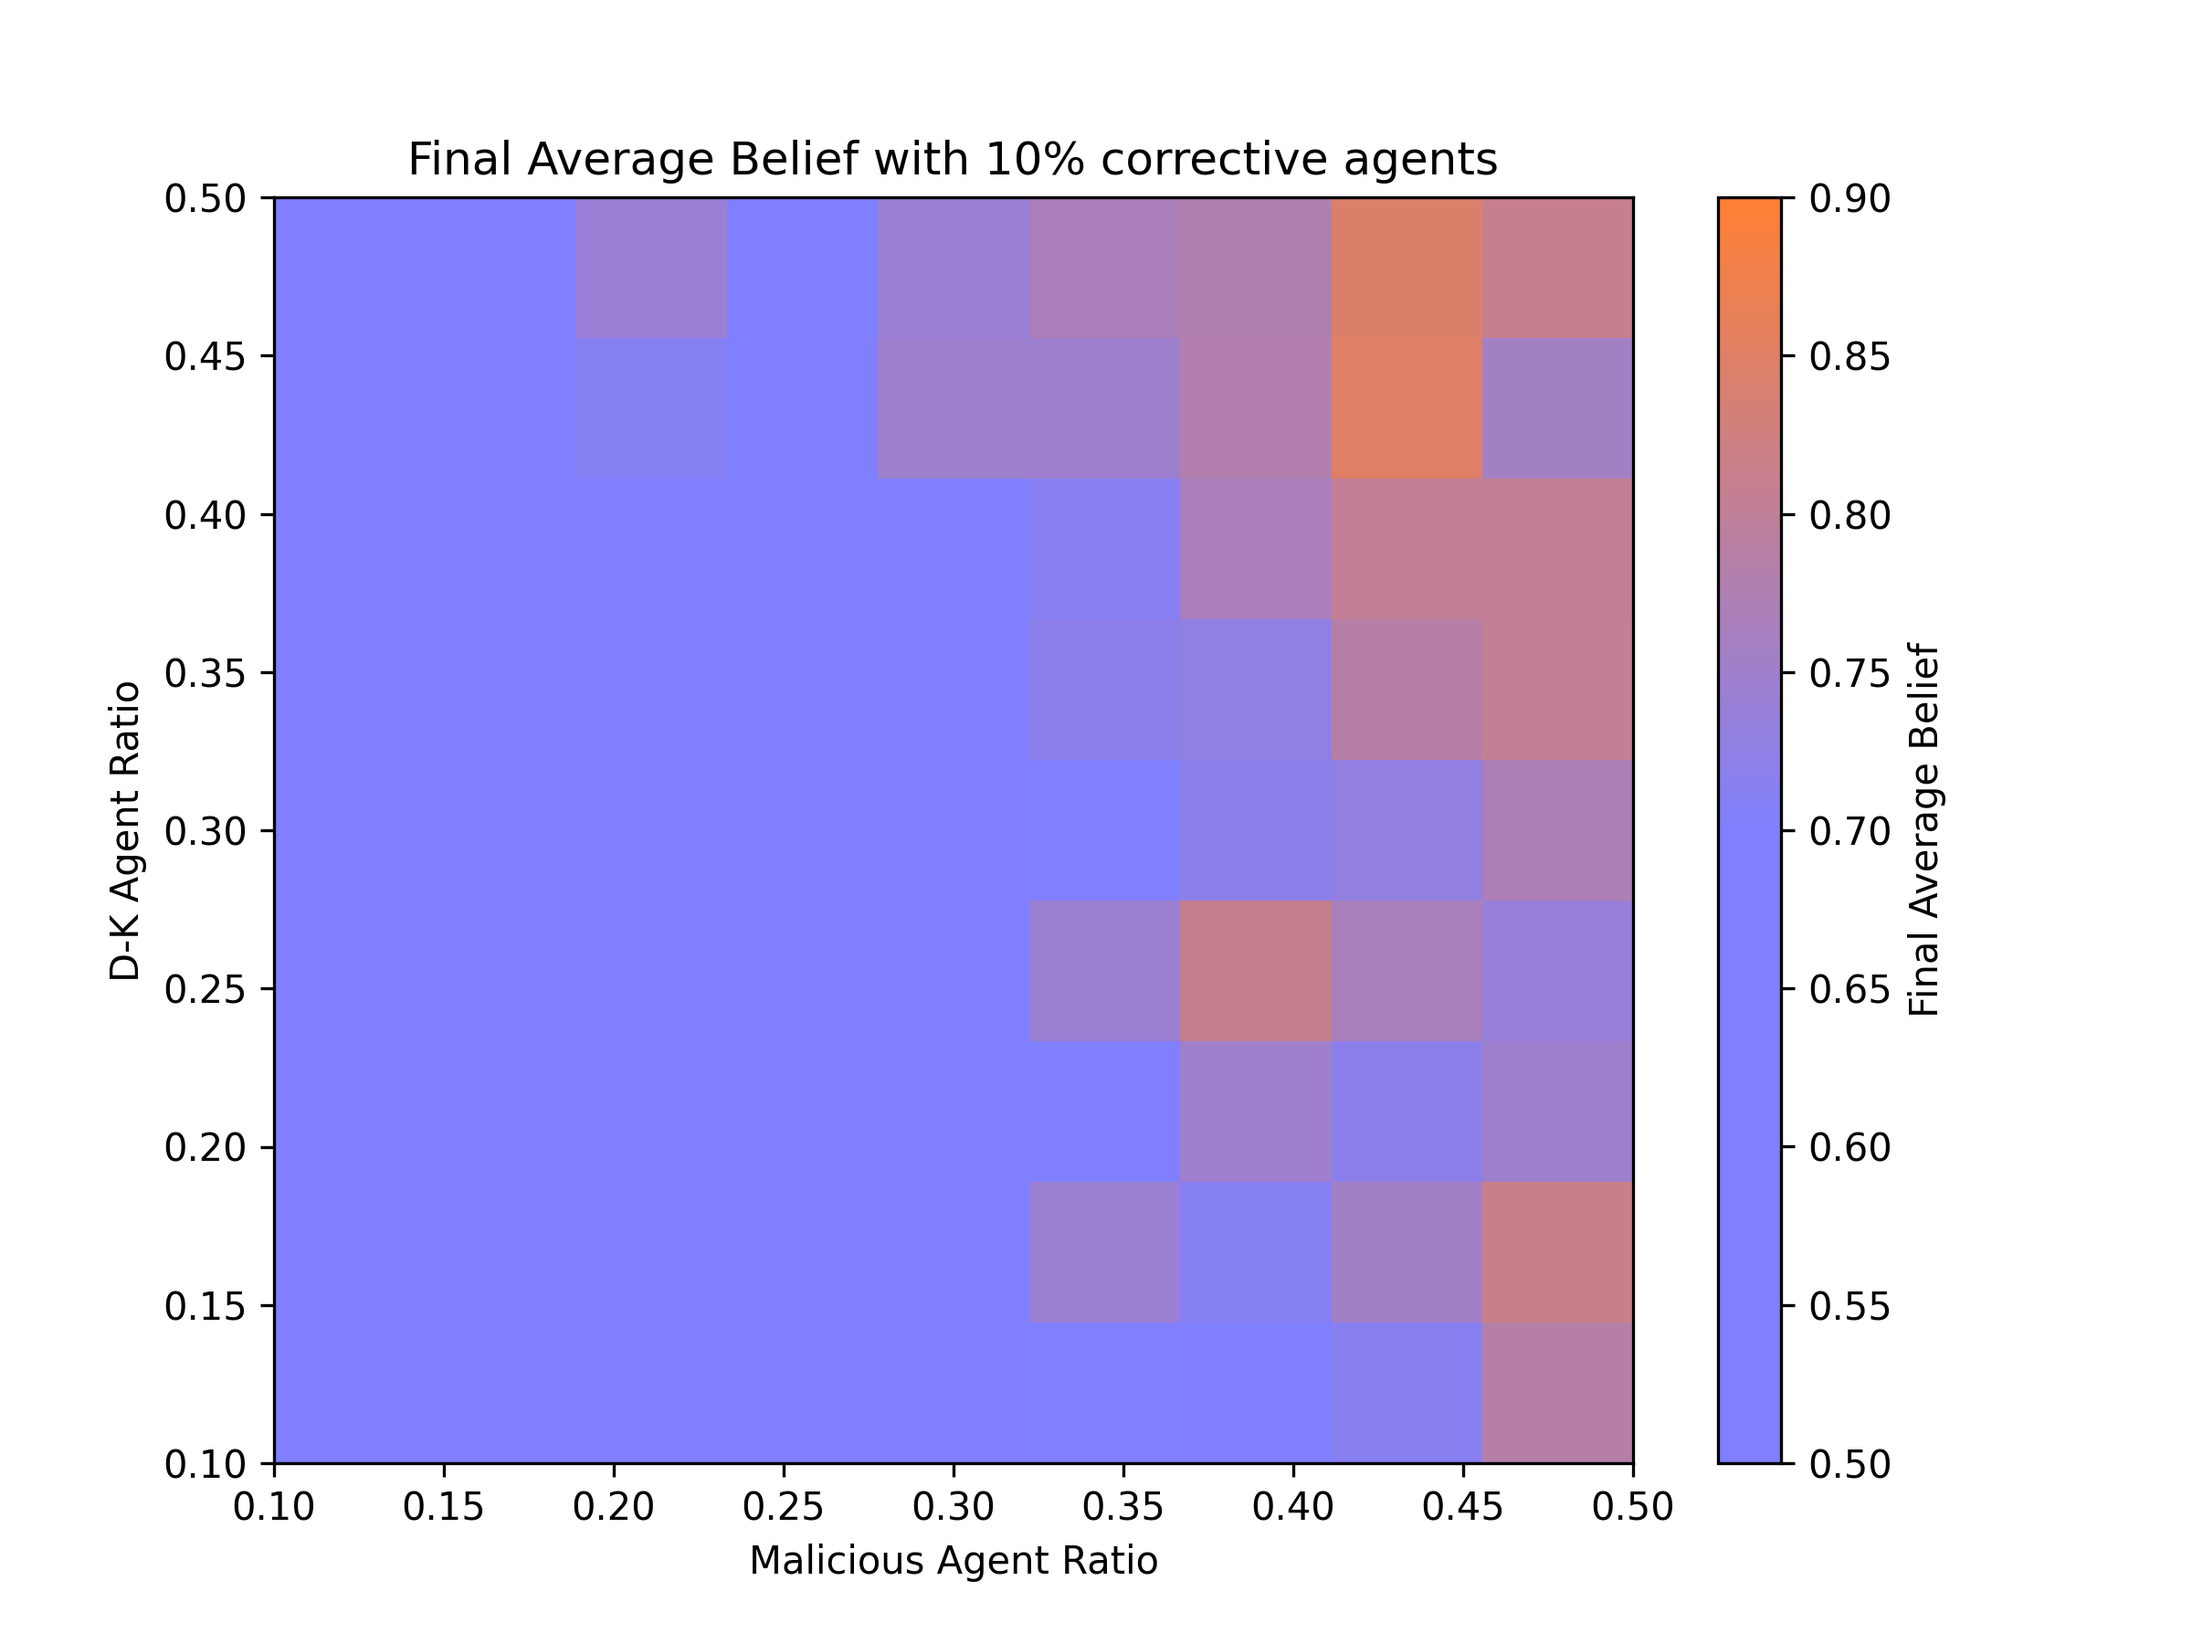
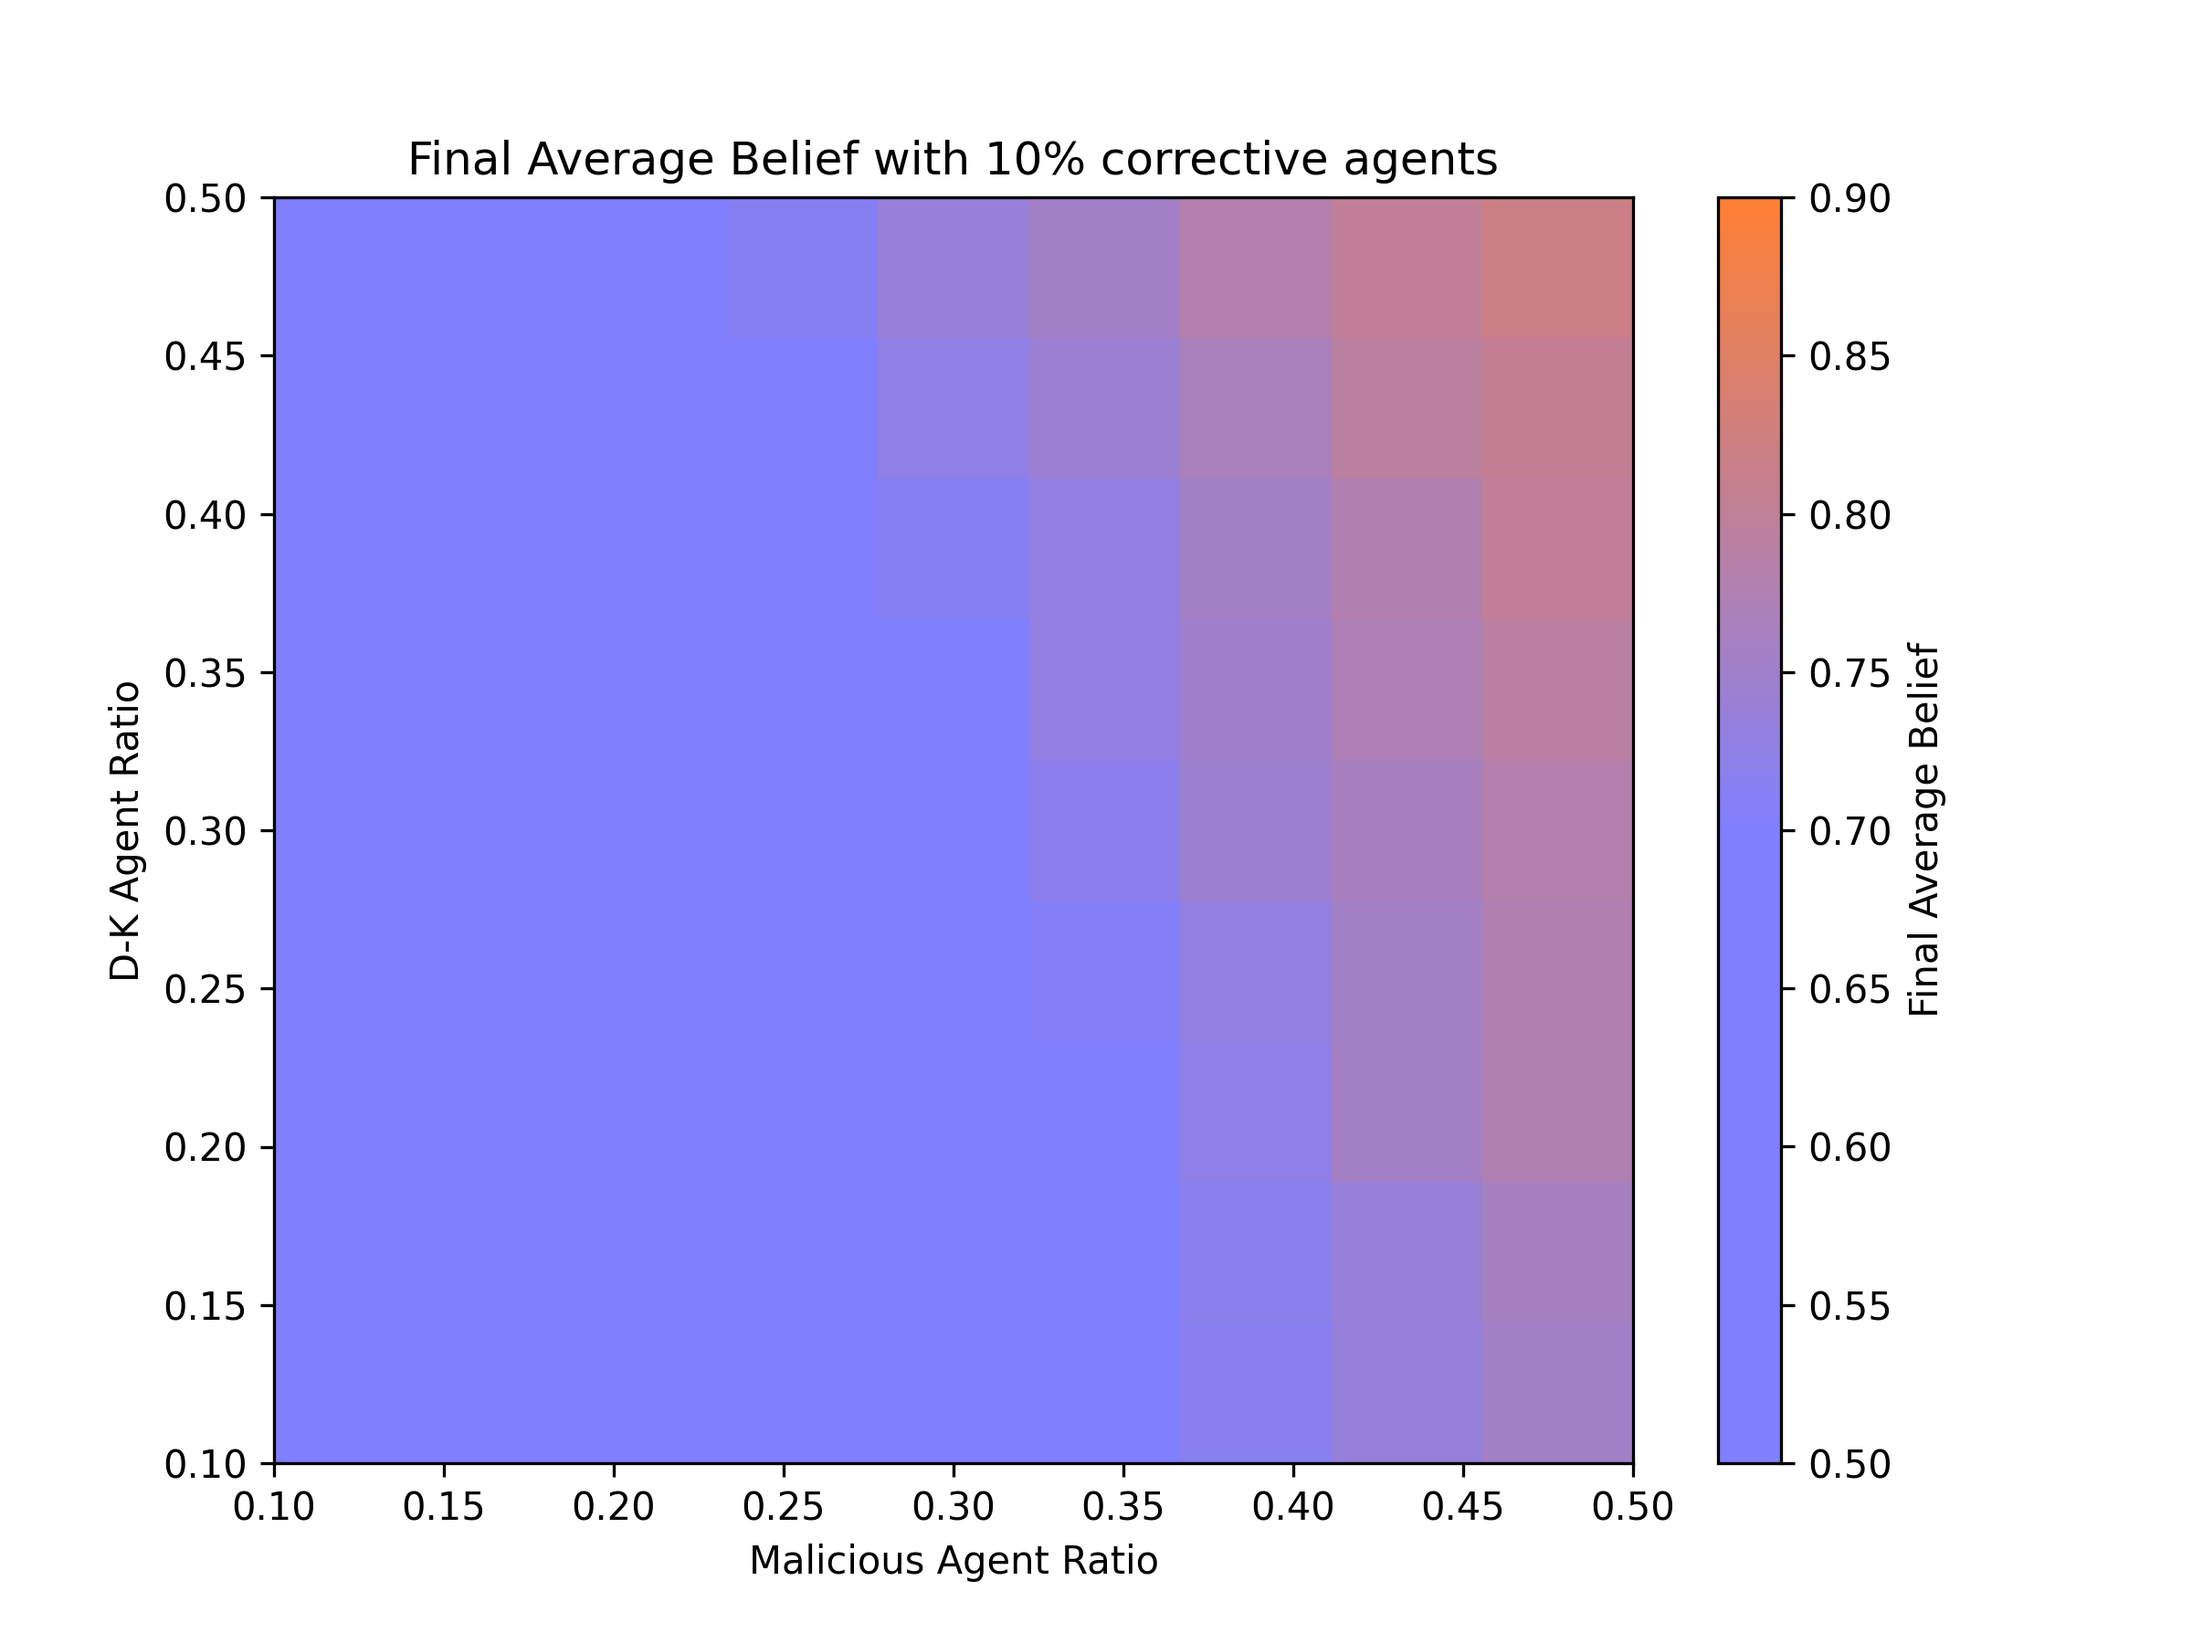
updated mesa_social

Changed region(s): [[0.4688, 0.4356, 0.75, 0.9022], [0.5938, 0.0933, 0.75, 0.4044], [0.25, 0.0933, 0.3438, 0.2178]]

diff --git a/mesa_social/script.py b/mesa_social/script.py
@@ -2,17 +2,21 @@ from model import BeliefModel
 import numpy as np
 import networkx as nx
 import matplotlib
+matplotlib.use('Agg')
 import matplotlib.pyplot as plt
 from matplotlib.colors import LinearSegmentedColormap, Normalize
 from matplotlib.patches import Patch
 from matplotlib.cm import ScalarMappable
 from matplotlib.colors import Normalize, LinearSegmentedColormap
 
-N_STEP = 50
+N_STEP = 250
 belief_cmap = LinearSegmentedColormap.from_list(
     "belief_map", [(0, 0.5, 1.0), (1.0, 0.5, 0.2)], N=256
 )
 belief_norm = Normalize(vmin=0.5, vmax=0.9)
+
+grid_width=100
+grid_height=100
 
     
 def get_heatmap_style():
@@ -139,8 +143,8 @@ def plot_belief_state_from_model(model, step=None):
 
 def run_once():
     model = BeliefModel(
-        width=10,
-        height=10,
+        width=grid_width,
+        height=grid_height,
         dk_ratio=0.2,
         malicious_ratio=0.2,
         influencer_ratio=0.1,
@@ -194,13 +198,16 @@ def run_multi():
 
     for i, dk in enumerate(dk_values):
         for j, mal in enumerate(malicious_values):
+            print("running model ", i, j)
             model = BeliefModel(
+                width=grid_width,
+                height=grid_height,
                 dk_ratio=dk,
                 malicious_ratio=mal,
                 influencer_ratio=infl_value
             )
 
-            for _ in range(N_STEP*4):
+            for _ in range(N_STEP):
                 model.step()
 
             label = f"DK: {dk:.1f}, Mal: {mal:.1f}"
@@ -230,7 +237,12 @@ def run_heatmap_fixed_infl():
 
     for i, dk in enumerate(dk_values):
         for j, mal in enumerate(mal_values):
-            model = BeliefModel(dk_ratio=dk, malicious_ratio=mal, influencer_ratio=infl_value)
+            model = BeliefModel(
+                width=grid_width,
+                height=grid_height,
+                dk_ratio=dk,
+                malicious_ratio=mal,
+                influencer_ratio=infl_value)
             for _ in range(N_STEP):
                 model.step()
             result = np.mean(model.data_belief)
@@ -264,7 +276,12 @@ def run_heatmap_fixed_mal():
 
     for i, dk in enumerate(dk_values):
         for j, infl in enumerate(infl_values):
-            model = BeliefModel(dk_ratio=dk, malicious_ratio=mal_value, influencer_ratio=infl)
+            model = BeliefModel(
+                width=grid_width,
+                height=grid_height,
+                dk_ratio=dk,
+                malicious_ratio=mal_value,
+                influencer_ratio=infl)
             for _ in range(N_STEP):
                 model.step()
             result = np.mean(model.data_belief)
@@ -290,9 +307,6 @@ def run_heatmap_fixed_mal():
    
     
 def run_surface():
-    matplotlib.use('Agg')  # For headless (no window) mode
-    # or try this instead for interactive:
-    # matplotlib.use('QtAgg')  # if you have PyQt5 or PySide2 installed
     # Prepare data for 3D plot
     dk_values = np.linspace(0.1, 0.5, 9)
     mal_values = np.linspace(0.1, 0.5, 9)
@@ -302,7 +316,12 @@ def run_surface():
     # Run simulations
     for i in range(DK.shape[0]):
         for j in range(DK.shape[1]):
-            model = BeliefModel(dk_ratio=DK[i, j], malicious_ratio=MAL[i, j], influencer_ratio=0.1)
+            model = BeliefModel(
+                width=grid_width,
+                height=grid_height,
+                dk_ratio=DK[i, j],
+                malicious_ratio=MAL[i, j],
+                influencer_ratio=0.1)
             for _ in range(N_STEP):
                 model.step()
             result = np.mean(model.data_belief)

diff --git a/mesa_social/agents.py b/mesa_social/agents.py
@@ -1,60 +1,37 @@
-from mesa import Agent
-import numpy as np
 import random
-from activation import CustomRandomActivation
 
-# Agent class
+
 class BeliefAgent:
     def __init__(self, unique_id, model, agent_type):
         self.unique_id = unique_id
         self.model = model
         self.type = agent_type
-        self.set_initial_values()
+        self._init_state()
 
-    def set_initial_values(self):
+    def _init_state(self):
+        i = self.unique_id
         if self.type == "malicious":
-            self.knowledge = 0.0
-            self.confidence = 1.0
-            self.belief = 1.0
+            self.model.knowledge[i] = 0.0
+            self.model.confidences[i] = 1.0
+            self.model.beliefs[i] = 1.0
         elif self.type == "influencer":
-            self.knowledge = 1.0
-            self.confidence = 0.5
-            self.belief = 0.5
+            self.model.knowledge[i] = 1.0
+            self.model.confidences[i] = 0.5
+            self.model.beliefs[i] = 0.5
         else:
-            if random.random() < self.model.dk_ratio:
-                self.knowledge = random.uniform(0.0, 0.3)
-            else:
-                self.knowledge = random.uniform(0.3, 1.0)
-            self.confidence = -4 * (self.knowledge - 0.3) ** 2 + 1
-            self.belief = random.uniform(0.4, 0.6)
+            k = random.uniform(0.0, 0.3) if random.random() < self.model.dk_ratio else random.uniform(0.3, 1.0)
+            self.model.knowledge[i] = k
+            self.model.confidences[i] = -4 * (k - 0.3) ** 2 + 1
+            self.model.beliefs[i] = random.uniform(0.4, 0.6)
 
-    def step(self):
-        # if self.type in ["malicious", "influencer"]:
-        #     return
-        
-        if self.type == "malicious":
-            return
+    @property
+    def belief(self):
+        return self.model.beliefs[self.unique_id]
 
-        if self.type == "normal":
-            # Normal agents are influenced by whoever is in their sampled neighborhood (including influencers).
-            neighbors = random.sample(self.model.agents, k=min(5, len(self.model.agents)))
-            # avg_belief = np.mean([a.belief for a in neighbors])
-            
-            # confidence-weighted average
-            # Malicious agents (conf = 1.0) have full impact
-            # Influencers (conf = 0.5–1.0) are partially influential
-            # Low-confidence agents have minimal impact
-            weights = [a.confidence for a in neighbors]
-            beliefs = [a.belief for a in neighbors]
-            avg_belief = np.average(beliefs, weights=weights)
-            
-            influence = self.model.influence_rate * (avg_belief - self.belief) * self.confidence
-            self.belief = np.clip(self.belief + influence, 0, 1)
+    @property
+    def confidence(self):
+        return self.model.confidences[self.unique_id]
 
-            humility = 1.0 - self.confidence
-            delta_k = self.model.learning_rate * humility * (1.0 - self.knowledge)
-            self.knowledge = np.clip(self.knowledge + delta_k, 0, 1)
-            self.confidence = -4 * (self.knowledge - 0.3) ** 2 + 1
-        elif self.type == "influencer":
-            # Influencers hold constant belief = 0.5 and knowledge = 1.0, so they exert consistent stabilizing pressure.
-            pass
+    @property
+    def knowledge(self):
+        return self.model.knowledge[self.unique_id]

diff --git a/mesa_social/model.py b/mesa_social/model.py
@@ -1,10 +1,7 @@
-from mesa import Model
-from mesa.space import _Grid
-from mesa.datacollection import DataCollector
 from agents import BeliefAgent
 import numpy as np
 import random
-from activation import CustomRandomActivation
+
 
 class BeliefModel:
     def __init__(self, width=10, height=10, dk_ratio=0.5, malicious_ratio=0.2, influencer_ratio=0.1,
@@ -17,8 +14,14 @@ class BeliefModel:
         self.influencer_ratio = influencer_ratio
         self.influence_rate = influence_rate
         self.learning_rate = learning_rate
-        self.schedule = CustomRandomActivation(self)
+
+        # Numpy arrays for vectorized step computation
+        self.beliefs = np.zeros(self.num_agents)
+        self.confidences = np.zeros(self.num_agents)
+        self.knowledge = np.zeros(self.num_agents)
+
         self.agents = []
+        agent_types = []
 
         for i in range(self.num_agents):
             r = random.random()
@@ -28,16 +31,46 @@ class BeliefModel:
                 a_type = "influencer"
             else:
                 a_type = "normal"
+            agent_types.append(a_type)
             agent = BeliefAgent(i, self, a_type)
             self.agents.append(agent)
-            self.schedule.add(agent)
+
+        self.normal_mask = np.array([t == "normal" for t in agent_types])
 
         self.data_belief = []
         self.data_knowledge = []
 
     def step(self):
-        self.schedule.step()
-        avg_belief = np.mean([a.belief for a in self.agents])
-        avg_knowledge = np.mean([a.knowledge for a in self.agents if a.type == "normal"])
-        self.data_belief.append(avg_belief)
-        self.data_knowledge.append(avg_knowledge)
+        N = self.num_agents
+        K = 5
+
+        # Sample K neighbor indices for every agent at once (with replacement — fast)
+        neighbor_idx = np.random.randint(0, N, size=(N, K))
+
+        # Gather neighbor beliefs and confidences via fancy indexing
+        neighbor_beliefs = self.beliefs[neighbor_idx]       # (N, K)
+        neighbor_weights = self.confidences[neighbor_idx]   # (N, K)
+
+        # Confidence-weighted average belief per agent
+        weight_sum = neighbor_weights.sum(axis=1)
+        weight_sum = np.where(weight_sum == 0, 1e-9, weight_sum)
+        avg_belief = (neighbor_beliefs * neighbor_weights).sum(axis=1) / weight_sum
+
+        # Belief update — normal agents only
+        influence = self.influence_rate * (avg_belief - self.beliefs) * self.confidences
+        new_beliefs = np.clip(self.beliefs + influence, 0.0, 1.0)
+        self.beliefs[self.normal_mask] = new_beliefs[self.normal_mask]
+
+        # Knowledge and confidence update — normal agents only
+        humility = 1.0 - self.confidences
+        delta_k = self.learning_rate * humility * (1.0 - self.knowledge)
+        new_knowledge = np.clip(self.knowledge + delta_k, 0.0, 1.0)
+        new_confidence = -4.0 * (new_knowledge - 0.3) ** 2 + 1.0
+        self.knowledge[self.normal_mask] = new_knowledge[self.normal_mask]
+        self.confidences[self.normal_mask] = new_confidence[self.normal_mask]
+
+        self.data_belief.append(float(np.mean(self.beliefs)))
+        if np.any(self.normal_mask):
+            self.data_knowledge.append(float(np.mean(self.knowledge[self.normal_mask])))
+        else:
+            self.data_knowledge.append(0.0)
